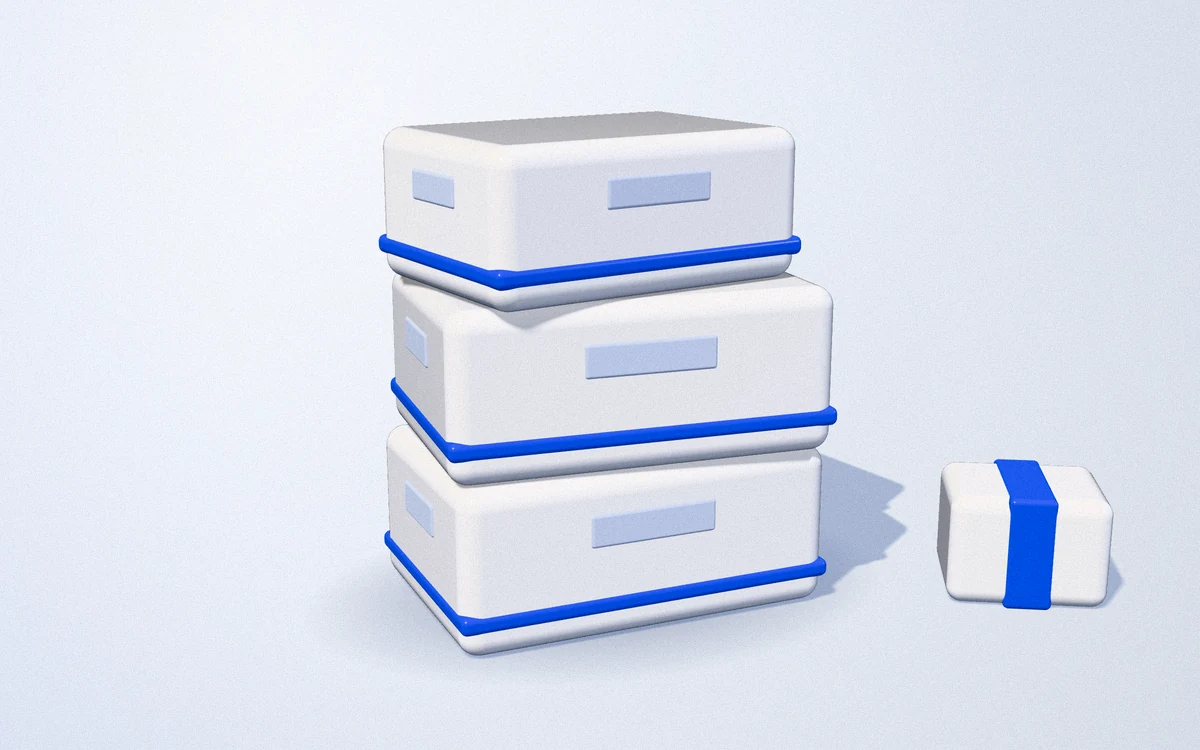
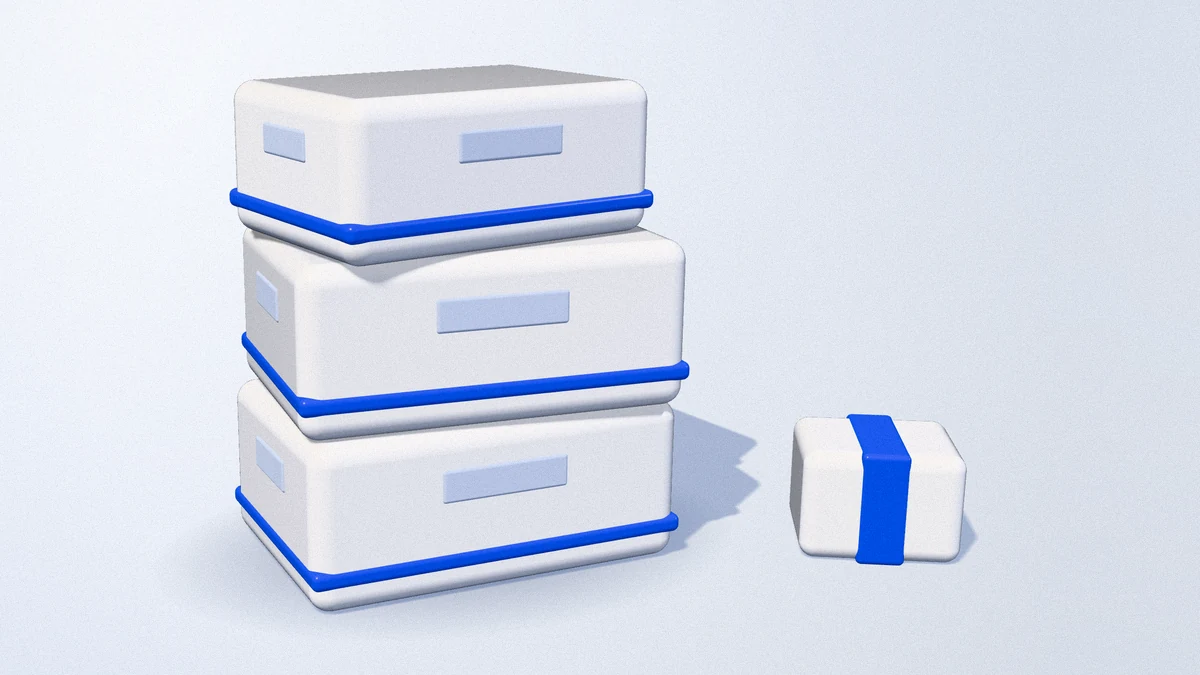
feat(infos): objets du fil recadrés (16:9 + vignette carrée -c) ; « pénurie de médecins » n'est plus une rupture

Changed region(s): [[0.185, 0.0933, 0.9558, 0.9333], [0.2158, 0.1867, 0.2775, 0.2489]]

diff --git a/crm/v2/v2-infos.js b/crm/v2/v2-infos.js
@@ -1474,6 +1474,7 @@
     var k = x15K(it), on = x15Garde(k);
     var rep = x14Image({ theme: it.theme, rang: it.rang }, i, ''), nom = x15Nom(it), ini = (nom.match(/[A-Za-zÀ-ÿ0-9]/) || ['·'])[0].toUpperCase();
     var age = x13Age(it).replace(/^il y a /, '');   // « 5 j », « 1 sem. » : tient sur la ligne de la source
+    if (compact && /^img\/infos\/[a-z]+-\d\.webp$/.test(src)) { rep = src; src = src.replace(/\.webp$/, '-c.webp'); }   // 28/10/2026 : la vignette prend l'objet recadré en carré (-c), l'image 16:9 en secours
     var img = '<img class="f3-im" src="' + esc(src) + '" data-fb="' + esc(rep) + '" alt="" loading="lazy" decoding="async" width="' + (compact ? 240 : 1200) + '" height="' + (compact ? 240 : 675) + '" onerror="if(this.getAttribute(\'data-fb\')&&this.src.indexOf(this.getAttribute(\'data-fb\'))<0){this.src=this.getAttribute(\'data-fb\')}else{this.onerror=null}">';
     var ouv = '<button type="button" class="f3-ouv" ' + (garde ? 'data-garde-i="' + esc(k) + '"' : 'data-fil-i="' + i + '"') + '><span class="f3-t">' + x13T(x15Nom(it) === 'FSPF' && String(it.t || '').replace(/\s*[–-]?\s*20\d\d-\d{1,3}\s*$/, '') || it.t) + '</span></button>';   // FSPF : sans la référence de circulaire finale (« Rupture de quétiapine – 2026-42 ») ; titre entier s'il ne restait rien
     var coeur = compact ? '' : '<button type="button" class="f3-b f3-coeur" data-f3="coeur" aria-pressed="' + (on ? 'true' : 'false') + '" aria-label="' + (on ? 'Retirer de mes infos gardées' : 'Garder cette info') + '">' + F3_COEUR + '</button>';

diff --git a/generate_brief.py b/generate_brief.py
@@ -854,7 +854,7 @@ THEMES = [
         r'g[ée]n[ée]riqu|biosimil|hybride|substitu|interchangeab|r[ée]pertoire|'
         r'\bbio[- ]?similaire|princeps|brevet|d[ée]ch[ée]ance', re.I)),
     ('rupture', re.compile(
-        r'rupture|tension d.approvision|p[ée]nurie|contingent|quota|'
+        r'rupture|tension d.approvision|p[ée]nurie(?! de (m[ée]decins|soignants|infirmi|personnel|praticiens|pharmaciens|main))|contingent|quota|'   # 28/10/2026 : « Pénurie de médecins » n'est pas une rupture de médicament
         r'approvisionnement|stock[ -]?out|indisponib|remise ? disposition|\bmitm\b|'
         r'disponibilit[ée] des (m[ée]dicaments|produits)|alertes? de disponibilit', re.I)),
     ('securite', re.compile(
